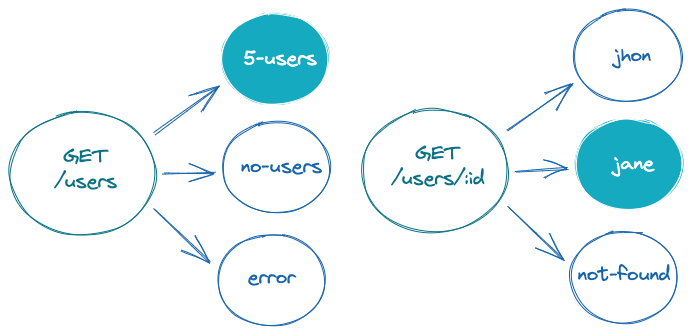
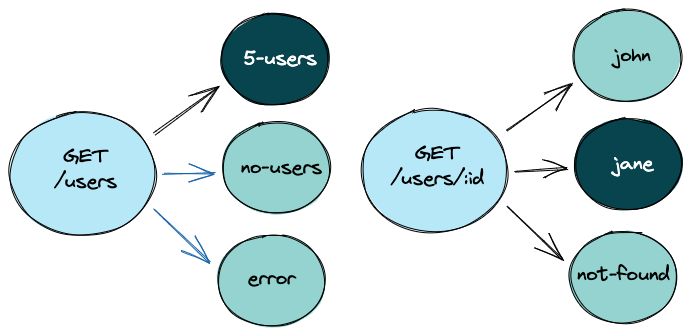
feat: styles

diff --git a/src/pages/index.js b/src/pages/index.js
@@ -27,7 +27,7 @@ const textContents = {
     Define routes using <code>json</code>, <code>JavaScript</code> or <code>TypeScript</code>. Configure [Babel](https://babeljs.io/) at your convenience for reading files. Or define routes programmatically.
   `,
   featuresExtensible: `
-    Use [Express](https://expressjs.com/) middlewares. Define custom handlers for the routes. Add custom Express routers. Or create a plugin and have full access to the [core API](docs/api-mocks-server-api).
+    Use [Express](https://expressjs.com/) middlewares in routes. Define custom handlers for the routes. Add custom Express routers. Or create a plugin and have full access to the [core API](docs/api-mocks-server-api).
   `,
   featuresControllable: `
     Control it using the [interactive CLI](docs/plugins-inquirer-cli), or use the [administration REST API](docs/plugins-admin-api), or [start it using JavaScript](docs/api-programmatic-usage) and control everything. Other integrations are available, such as [Cypress commands](docs/integrations-cypress).
@@ -37,7 +37,7 @@ const textContents = {
   `,
   routes: `A <code>route</code> defines the url and method of an API resource. Wildcards can be used in urls and methods, so one <code>route</code> can simulate one real API resources, or many.`,
   variants: `Each <code>route</code> can contain many different <code>variants</code>. Each <code>variant</code> can define a response to send, or a middleware to execute, or a url to proxy the request...`,
-  collections: `A <code>collection</code> of route variants defines all current routes and variants in the mocked API. They can be created extending other collections. So, it's easy to storage many collections and change the whole API behavior by simply changing the current one.`,
+  collections: `A <code>collection</code> of route variants defines all current routes and variants in the mocked API. They can be created extending other collections. So, you can store many collections and change the whole API behavior by simply changing the current one.`,
   jsonCode: `
     [
       {
@@ -118,8 +118,37 @@ function Text({ text }) {
   return <div className="text" dangerouslySetInnerHTML={{ __html: text }} />;
 }
 
-function Heading({ element = "h2", text, centered, className }) {
+function HeadingWithIcon({
+  element = "h2",
+  text,
+  centered,
+  className,
+  icon,
+  iconHolderClassName,
+}) {
+  return (
+    <div className={clsx("heading-with-icon", centered)}>
+      <span>
+        <div className={clsx("icon-holder", iconHolderClassName)}>{icon}</div>
+      </span>
+      <Heading element={element} text={text} className={className} />
+    </div>
+  );
+}
+
+function Heading({ element = "h2", text, centered, className, icon, iconHolderClassName }) {
   const El = element;
+  if (icon) {
+    return (
+      <HeadingWithIcon
+        icon={icon}
+        element={element}
+        text={text}
+        centered={centered}
+        iconHolderClassName={iconHolderClassName}
+      />
+    );
+  }
   return <El className={clsx("heading", centered && "centered", className)}>{text}</El>;
 }
 
@@ -266,11 +295,17 @@ function MainFeatures() {
   );
 }
 
-function ImageAndText({ title, text, imageSrc, imageAlt }) {
+function ImageAndText({ title, text, imageSrc, imageAlt, countClassname, count }) {
   return (
     <div className="image-and-text">
       <img src={imageSrc} alt={imageAlt} />
-      <Heading element="h3" text={title} className="title" />
+      <Heading
+        element="h3"
+        text={title}
+        className="title"
+        icon={count}
+        iconHolderClassName={countClassname}
+      />
       <Text text={text} />
     </div>
   );
@@ -287,6 +322,8 @@ function MainConcepts({ background }) {
       <Row>
         <Column lg={4} md={4} xs={12}>
           <ImageAndText
+            count="1"
+            countClassname="route"
             title="Routes"
             text={useContent("routes")}
             imageSrc={useBaseUrl("img/concepts-route.png")}
@@ -295,6 +332,8 @@ function MainConcepts({ background }) {
         </Column>
         <Column lg={4} md={4} xs={12}>
           <ImageAndText
+            count="2"
+            countClassname="variant"
             title="Variants"
             text={useContent("variants")}
             imageSrc={useBaseUrl("img/concepts-variant.png")}
@@ -303,6 +342,8 @@ function MainConcepts({ background }) {
         </Column>
         <Column lg={4} md={4} xs={12}>
           <ImageAndText
+            count="3"
+            countClassname="collection"
             title="Collections"
             text={useContent("collections")}
             imageSrc={useBaseUrl("img/concepts-collection.png")}
@@ -345,20 +386,20 @@ function Integrations({ background }) {
       <Heading text="Integrations" centered className="with-subheading" />
       <SubHeading text="Works well with many ecosystems, and more are coming..." centered />
       <Row>
-        <Column sm={2} hiddenXs></Column>
-        <Column sm={2} xs={6} className="center-content">
+        <Column md={2} hiddenSm hiddenXs></Column>
+        <Column md={2} sm={4} xs={4} className="center-content">
           <img alt="NodeJS" src={useBaseUrl("img/nodejs-logo.png")} />
         </Column>
-        <Column sm={2} xs={6} className="center-content">
+        <Column md={2} sm={4} xs={4} className="center-content">
           <img alt="Shell" src={useBaseUrl("img/shell-logo.png")} />
         </Column>
-        <Column sm={2} xs={6} className="center-content">
+        <Column md={2} sm={4} xs={4} className="center-content">
           <img alt="Cypress" src={useBaseUrl("img/cypress-logo.jpeg")} />
         </Column>
-        <Column sm={2} xs={6} className="center-content">
+        <Column md={2} sm={12} xs={12} className="center-content">
           <img alt="REST API" src={useBaseUrl("img/rest-api-logo.webp")} />
         </Column>
-        <Column sm={2} hiddenXs></Column>
+        <Column md={2} hiddenSm hiddenXs></Column>
       </Row>
     </Section>
   );

diff --git a/src/css/index.scss b/src/css/index.scss
@@ -69,6 +69,33 @@
   }
 }
 
+.heading-with-icon {
+  span {
+    display: inline-block;
+    margin-right: 0.6rem;
+    color: var(--ifm-font-color-base);
+    font-weight: 600;
+    font-size: 20px;
+  }
+  .heading {
+    display: inline-block;
+  }
+  .icon-holder {
+    width: 40px;
+    height: 40px;
+    border: 1px solid var(--ifm-font-color-base);
+    padding-top: 2px;
+  }
+}
+
+html[data-theme='dark'] {
+  .heading-with-icon {
+    .icon-holder {
+      border: 1px solid var(--ifm-font-color-base-inverse);
+    }
+  }
+}
+
 .subheading {
   font-size: 20px;
   color: var(--ifm-font-color-base);
@@ -76,7 +103,7 @@
   line-height: 1.2;
   margin-top: 0;
   font-weight: 500;
-  margin-bottom: 2rem;
+  margin-bottom: 3rem;
 
   &.centered {
     width: 100%;
@@ -175,7 +202,14 @@ html[data-theme='dark'] {
 
   img {
     height: 200px;
-    margin-bottom: 1rem;
+    margin-bottom: 2rem;
+  }
+
+  @media only screen and (max-width: 990px) {
+    .text {
+      text-align: center;
+      margin-bottom: 3rem;
+    }
   }
 }
 
@@ -184,12 +218,49 @@ html[data-theme='dark'] {
 .integrations {
   img {
     width: 120px;
+    min-width: 120px;
     height: 120px;
     border-radius: 50%;
     box-shadow: 0 0.5rem 1rem rgb(0 0 0 / 15%);
   }
 }
 
+/* Concepts */
+
+.heading-with-icon {
+  .icon-holder {
+    &.route {
+      background-color: #B7E8F7;
+    }
+
+    &.variant {
+      background-color: #94D3CF;
+    }
+
+    &.collection {
+      background-color: #08444D;
+      color: var(--ifm-font-color-base-inverse)
+    }
+  }
+}
+
+html[data-theme='dark'] {
+  .heading-with-icon {
+    .icon-holder {
+      &.route {
+        color: var(--ifm-font-color-base-inverse)
+      }
+
+      &.variant {
+        color: var(--ifm-font-color-base-inverse)
+      }
+
+      &.collection {
+        color: var(--ifm-font-color-base)
+      }
+    }
+  }
+}
 
 /* Header hero */
 
